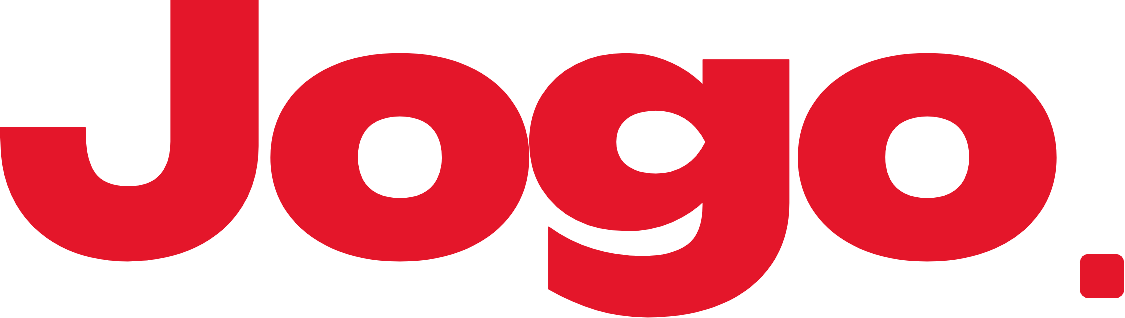
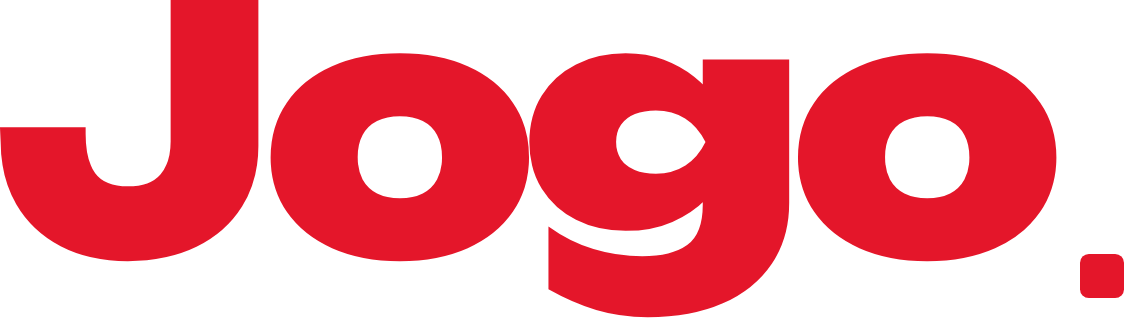
"White Glass" light theme, and the supplied logotype
Two changes, both preview-approved before landing.

White Glass — the light theme's counterpart to True Black Glass, so the
theme toggle in Branding now gives a real glass treatment either way
rather than glass on one side and opaque cards on the other.

The orb field's geometry (sizes, positions) moves to an unscoped
body::after and only the colours branch per theme, so toggling relights
the composition instead of moving it.

The lighting model inverts. On black an orb is lighter than the canvas
with a brighter cap; on cream it has to be darker, with the cap running
back toward white — a light-on-light sphere has nothing to be seen
against. Orb bodies are a cool slate rather than neutral grey: a
black-at-opacity disc on cream reads as a dirty smudge (the same reason
.input is pure white rather than a grey ink-tint fill), and pulling the
mix slightly blue is what lets the white sheen on top read as light
rather than as a hole in the fill.

Two things genuinely differ between the themes rather than being
recoloured, and are commented as such so neither looks like an oversight
later:
- Light glass carries a drop shadow, dark glass carries none. On black a
  panel separates from the canvas by being lighter than it; on cream a
  translucent white panel is nearly the page's own luminance and
  dissolves without a cast shadow.
- The film is 0.62 opaque against dark's 0.03. Sheerness on black still
  leaves text contrast because everything behind it is near-black anyway;
[…]

diff --git a/app/globals.css b/app/globals.css
@@ -129,14 +129,19 @@
      each orb as they pass, instead of the whole scene sliding as one flat
      sheet. Same z-index:-1 / pointer-events:none contract as ::before, and
      it paints above ::before (same stacking level, later in paint order),
-     so the orbs sit over the ambient washes and grid. Dark theme only —
-     on the light canvas these would read as smudges, not depth. */
-  [data-theme="dark"] body::after {
+     so the orbs sit over the ambient washes and grid.
+
+     Geometry (sizes and positions) is shared by both themes so the
+     composition doesn't shift when the theme is toggled — only the colours
+     change, in the two scoped rules below. */
+  body::after {
     content: "";
     position: fixed;
     inset: 0;
     z-index: -1;
     pointer-events: none;
+  }
+  [data-theme="dark"] body::after {
     background-image:
       /* top-left, large */
       radial-gradient(7rem 7rem at 10.5% 7.5%, rgb(255 255 255 / 0.2) 0%, rgb(255 255 255 / 0.12) 45%, transparent 72%),
@@ -159,6 +164,46 @@
       /* bottom, small */
       radial-gradient(3.5rem 3.5rem at 55.5% 82%, rgb(255 255 255 / 0.18) 0%, rgb(255 255 255 / 0.11) 45%, transparent 72%),
       radial-gradient(8rem 8rem at 58% 86%, rgb(255 255 255 / 0.095) 0%, rgb(255 255 255 / 0.09) 48%, rgb(255 255 255 / 0.065) 66%, transparent 79%);
+  }
+  /* Light theme: the same seven spheres with the lighting model inverted.
+     On black an orb is *lighter* than the canvas and its lit cap is
+     brighter still; on cream an orb has to be *darker* than the canvas,
+     with the cap running back toward white — otherwise a light-on-light
+     sphere has nothing to be seen against.
+
+     The body colour is a cool slate (148 154 172), not neutral grey. A
+     straight black-at-opacity disc on cream reads as a dirty smudge (the
+     same reason .input above is pure white rather than a grey ink-tint
+     fill); pulling the mix slightly blue keeps it reading as shadow and
+     glass rather than as grime, and it's what makes the white sheen on top
+     look like light rather than a gap in the fill.
+
+     Alpha runs roughly 1.3x the dark theme's because these sit on a
+     high-key canvas where the eye has far less headroom to detect a
+     low-contrast shape. */
+  [data-theme="light"] body::after {
+    background-image:
+      /* top-left, large */
+      radial-gradient(7rem 7rem at 10.5% 7.5%, rgb(255 255 255 / 0.85) 0%, rgb(255 255 255 / 0.45) 45%, transparent 72%),
+      radial-gradient(16rem 16rem at 14% 12%, rgb(148 154 172 / 0.15) 0%, rgb(148 154 172 / 0.14) 48%, rgb(148 154 172 / 0.1) 66%, transparent 79%),
+      /* top-centre, clipped by the top edge */
+      radial-gradient(6rem 6rem at 57% 0%, rgb(255 255 255 / 0.8) 0%, rgb(255 255 255 / 0.4) 45%, transparent 72%),
+      radial-gradient(13rem 13rem at 60% 4%, rgb(148 154 172 / 0.13) 0%, rgb(148 154 172 / 0.12) 48%, rgb(148 154 172 / 0.09) 66%, transparent 79%),
+      /* top-right, small */
+      radial-gradient(3rem 3rem at 93.5% 8.5%, rgb(255 255 255 / 0.85) 0%, rgb(255 255 255 / 0.45) 45%, transparent 72%),
+      radial-gradient(6.5rem 6.5rem at 95% 11%, rgb(148 154 172 / 0.15) 0%, rgb(148 154 172 / 0.14) 48%, rgb(148 154 172 / 0.1) 66%, transparent 79%),
+      /* right, largest */
+      radial-gradient(7.5rem 7.5rem at 86% 42%, rgb(255 255 255 / 0.8) 0%, rgb(255 255 255 / 0.4) 45%, transparent 72%),
+      radial-gradient(17rem 17rem at 90% 48%, rgb(148 154 172 / 0.13) 0%, rgb(148 154 172 / 0.12) 48%, rgb(148 154 172 / 0.09) 66%, transparent 79%),
+      /* left, small */
+      radial-gradient(3rem 3rem at 3.5% 63%, rgb(255 255 255 / 0.85) 0%, rgb(255 255 255 / 0.45) 45%, transparent 72%),
+      radial-gradient(6.5rem 6.5rem at 5% 66%, rgb(148 154 172 / 0.15) 0%, rgb(148 154 172 / 0.14) 48%, rgb(148 154 172 / 0.1) 66%, transparent 79%),
+      /* bottom-centre, clipped by the bottom edge */
+      radial-gradient(6rem 6rem at 39% 90%, rgb(255 255 255 / 0.8) 0%, rgb(255 255 255 / 0.4) 45%, transparent 72%),
+      radial-gradient(14rem 14rem at 42% 95%, rgb(148 154 172 / 0.13) 0%, rgb(148 154 172 / 0.12) 48%, rgb(148 154 172 / 0.09) 66%, transparent 79%),
+      /* bottom, small */
+      radial-gradient(3.5rem 3.5rem at 55.5% 82%, rgb(255 255 255 / 0.8) 0%, rgb(255 255 255 / 0.4) 45%, transparent 72%),
+      radial-gradient(8rem 8rem at 58% 86%, rgb(148 154 172 / 0.13) 0%, rgb(148 154 172 / 0.12) 48%, rgb(148 154 172 / 0.09) 66%, transparent 79%);
   }
   /* h1/h2 get the "Pro Max" pass's own tighter -0.03em — they're the
      anchor headings the polish pass called out as reading weak — while
@@ -373,6 +418,68 @@
     border-color: rgb(var(--status-live) / 0.5);
     color: rgb(var(--status-live));
   }
+
+  /* ── "White Glass" — the light theme's counterpart ────────────────────
+     Same treatment, inverted. Two things genuinely differ from the dark
+     rules rather than just being recoloured:
+
+     1. Light glass still needs a drop shadow. On black, a panel separates
+        from the canvas because it is lighter than it; on cream, a
+        translucent white panel is nearly the same luminance as the page
+        behind it, so without a cast shadow it dissolves. The dark rules
+        deliberately carry no drop shadow at all — a shadow on black is
+        invisible — so this is not an oversight being corrected, it is the
+        one place the two themes need different physics.
+
+     2. The film is far less sheer (0.62 vs 0.03). Sheerness on black still
+        leaves plenty of text contrast because everything behind it is
+        near-black anyway; at 0.03 on cream the orbs would read straight
+        through the panel and sit behind body copy.
+
+     Scoped to [data-theme="light"] rather than left as the bare component
+     defaults so the opaque cards stay reachable — the base .card is still
+     what renders anywhere the attribute is missing (a page rendered before
+     hydration, or any future surface that opts out of theming). */
+  [data-theme="light"] .card,
+  [data-theme="light"] .card-elevated {
+    background-color: rgb(255 255 255 / 0.62);
+    border-color: rgb(255 255 255 / 0.9);
+    backdrop-filter: blur(40px);
+    box-shadow:
+      0 1px 2px rgb(17 17 17 / 0.04),
+      0 10px 30px rgb(17 17 17 / 0.06),
+      inset 0 1px 1px rgb(255 255 255 / 0.9);
+  }
+  [data-theme="light"] .card-interactive {
+    transition: background-color 300ms ease, transform 200ms ease, box-shadow 200ms ease;
+  }
+  /* Hover fills the glass in rather than brightening it — the dark theme
+     lifts a panel by adding light, which on cream would mean going past
+     white. Going more opaque is the only direction left, and it reads the
+     same way: the surface catching more of the light. */
+  [data-theme="light"] .card-interactive:hover {
+    background-color: rgb(255 255 255 / 0.85);
+    border-color: rgb(255 255 255);
+    box-shadow:
+      0 2px 4px rgb(17 17 17 / 0.05),
+      0 16px 40px rgb(17 17 17 / 0.09),
+      inset 0 1px 1px rgb(255 255 255 / 0.9);
+  }
+  /* Recessed glass, same idea as the dark input: the field sits *under*
+     the panel it's cut into. On cream that means less white than the card,
+     not more black. */
+  [data-theme="light"] .input {
+    background-color: rgb(255 255 255 / 0.55);
+    border-color: rgb(17 17 17 / 0.1);
+    backdrop-filter: blur(12px);
+    box-shadow: inset 0 1px 2px rgb(17 17 17 / 0.04);
+  }
+  [data-theme="light"] .input:focus {
+    background-color: rgb(255 255 255 / 0.92);
+  }
+  [data-theme="light"] .badge {
+    backdrop-filter: blur(12px);
+  }
 }
 
 /* The sidebar rail as its own glass panel, matching the cards. Not a
@@ -382,6 +489,15 @@
 [data-theme="dark"] aside {
   background-color: rgb(255 255 255 / 0.03);
   border-color: rgb(255 255 255 / 0.1);
+  backdrop-filter: blur(40px);
+}
+/* Same rail, light theme. Kept a touch more opaque than the cards: the
+   sidebar is a full-height column, so orbs drifting behind it are read as
+   streaks down the whole edge of the screen rather than as depth under a
+   discrete panel. */
+[data-theme="light"] aside {
+  background-color: rgb(255 255 255 / 0.72);
+  border-color: rgb(17 17 17 / 0.07);
   backdrop-filter: blur(40px);
 }
 

diff --git a/components/Logo.tsx b/components/Logo.tsx
@@ -1,17 +1,24 @@
-// The wordmark, set as live text rather than the raster logotype
-// (public/jogo-wordmark.png) this used to render. The standalone "J" tile
-// that sat beside it is gone entirely — the brand now reads purely as
-// typography.
+// The wordmark, rendered from the supplied logotype
+// (public/jogo-wordmark.png) rather than set as live text. The letterforms
+// are a custom-drawn mark — the rounded single-storey "g" with its open
+// descender and the square period aren't reproducible from Plus Jakarta
+// Sans, so this has to be the real asset, not type styled to look like it.
 //
-// Its red is deliberately a fixed hex rather than the site's configurable
-// accent (--pitch-400): the logo is a constant piece of brand identity, and
-// it shouldn't shift colour just because an organizer picks a different
-// accent in Settings. Everything else on the page follows the accent; this
-// one mark does not.
+// The asset is stored with the background keyed out to true transparency
+// and the flat brand red baked into every pixel, so the same file works on
+// the black canvas and the cream one without a light fringe on its edges.
 //
-// Sized by a text-* class, not the h-* classes the old <img> needed —
-// callers pass a font size now, since there's no raster asset whose height
-// drives the layout.
+// Its red is deliberately the file's own #E4162A rather than the site's
+// configurable accent (--pitch-400): the logo is a constant piece of brand
+// identity, and it shouldn't shift colour just because an organizer picks a
+// different accent in Settings. Everything else on the page follows the
+// accent; this one mark does not.
+//
+// Callers still pass a text-* size in wordmarkClassName, exactly as they did
+// for the live-text version. That class lands on a wrapper span and the
+// <img> is measured in em, so it inherits whatever font-size resolves there
+// — one rule keeps every existing call site (text-sm through text-5xl)
+// working without touching any of them.
 export function Logo({
   className = "",
   wordmarkClassName = "text-xl",
@@ -21,10 +28,14 @@ export function Logo({
 }) {
   return (
     <span className={`inline-flex items-center ${className}`}>
-      <span
-        className={`${wordmarkClassName} font-display font-extrabold tracking-[-0.04em] text-[#FF4D4D] leading-none`}
-      >
-        Jogo.
+      <span className={`${wordmarkClassName} inline-flex leading-none`}>
+        {/* eslint-disable-next-line @next/next/no-img-element */}
+        <img
+          src="/jogo-wordmark.png"
+          alt="Jogo"
+          className="h-[1em] w-auto select-none"
+          draggable={false}
+        />
       </span>
     </span>
   );

diff --git a/components/HeroPhoneMockup.tsx b/components/HeroPhoneMockup.tsx
@@ -48,9 +48,14 @@ export function HeroPhoneMockup() {
             {/* App header */}
             <div className="flex items-center justify-between px-5 pt-3 pb-4">
               <IconMenu className="h-4 w-4 text-white/50" />
-              <span className="font-logo text-lg font-bold text-white">
-                Jogo<span className="text-pitch-400">.</span>
-              </span>
+              {/* The real logotype, not type styled to match it — this mock
+                  sits directly beside the header wordmark on the homepage,
+                  so two different sets of letterforms would read as a
+                  mistake. Fully red here rather than the old white-with-a-
+                  red-dot treatment, which is also what the actual mobile
+                  header renders. */}
+              {/* eslint-disable-next-line @next/next/no-img-element */}
+              <img src="/jogo-wordmark.png" alt="Jogo" className="h-[0.95rem] w-auto select-none" draggable={false} />
               <span className="relative">
                 <IconBell className="h-4 w-4 text-white/50" />
                 <span className="absolute -top-0.5 -right-0.5 h-1.5 w-1.5 rounded-full bg-pitch-400" />
